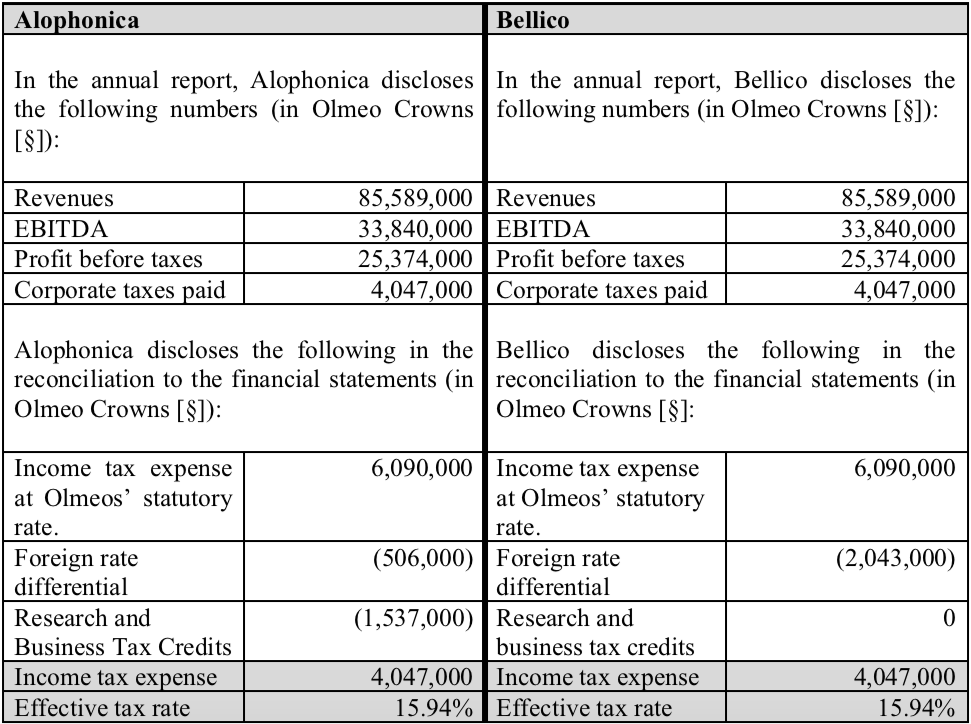
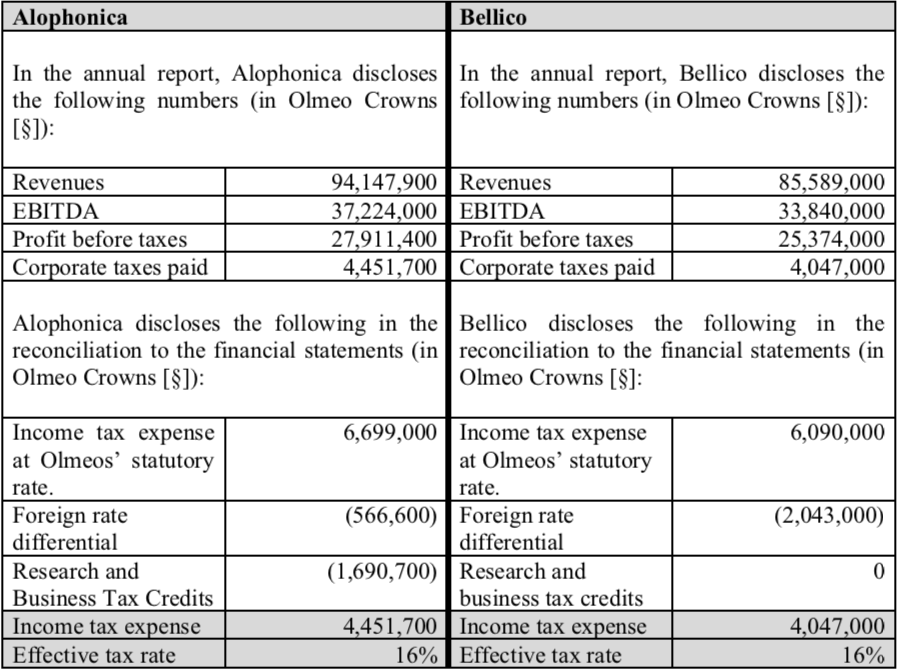
Update Materials

Changed region(s): [[0.0, 0.0, 1.0, 1.0]]

diff --git a/publictax/templates/publictax/Info_3.html b/publictax/templates/publictax/Info_3.html
@@ -36,19 +36,19 @@
     </thead>
         <tr>
             <td><b>Total Income:</b></td>
-            <td>$85,589,000</td>
+            <td>$94,147,900</td>
             <td><b>Total Income:</b></td>
             <td>$85,589,000</td>
         </tr>
         <tr>
             <td><b>Taxable Income:</b></td>
-            <td>$25,374,000</td>
+            <td>$37,224,000</td>
             <td><b>Taxable Income:</b></td>
             <td>$25,374,000</td>
         </tr>
         <tr>
             <td><b>Taxes Paid:</b></td>
-            <td>$4,047,000</td>
+            <td>$4,451,700</td>
             <td><b>Taxes Paid:</b></td>
             <td>$4,047,000</td>
         </tr>

diff --git a/_templates/global/MTurkPreview.html b/_templates/global/MTurkPreview.html
@@ -1,0 +1,19 @@
+{% extends "otree/MTurkPreview.html" %}
+{% load otree %}
+
+{% block title %}Please read this before clicking "Accept"{% endblock %}
+
+{% block content %}
+    <p>
+        This HIT is part of a study on decision-making.
+    </p>
+
+    <p>
+       During this HIT, you will be asked to evaluate corporate tax strategies. For completing this experiment, you
+        receive a reward of $1.
+    </p>
+
+    <p>
+        After completing this HIT, you will receive your reward
+    </p>
+{% endblock %}

diff --git a/publictax/templates/publictax/Intro.html b/publictax/templates/publictax/Intro.html
@@ -29,7 +29,7 @@ Please take note of the following information:
     <p>Thank you,</p>
 
     <p>Bart Dierynck, Martin Jacob, Christian Peters, Maximilian M&#252ller, and Victor van Pelt<br>
-    Tilburg University</p>
+    Tilburg University and WHU - Otto Beisheim School of Management</p>
     </div>
 
 

diff --git a/settings.py b/settings.py
@@ -5,10 +5,23 @@ from os import environ
 # the session config can be accessed from methods in your apps as self.session.config,
 # e.g. self.session.config['participation_fee']
 
+mturk_hit_settings = {
+    'keywords': ['bonus', 'study'],
+    'title': 'A Study about Corporate Taxation',
+    'description': 'During this study you will be asked to assess corporate tax strategies',
+    'frame_height': 500,
+    'preview_template': 'global/MTurkPreview.html',
+    'minutes_allotted_per_assignment': 20,
+    'expiration_hours': 7*24, # 7 days
+    #'grant_qualification_id': 'YOUR_QUALIFICATION_ID_HERE',# to prevent retakes
+    'qualification_requirements': []
+}
+
 SESSION_CONFIG_DEFAULTS = {
     'real_world_currency_per_point': 1.00,
-    'participation_fee': 0.00,
+    'participation_fee': 1.00,
     'doc': "",
+    'mturk_hit_settings': mturk_hit_settings,
 }
 
 SESSION_CONFIGS = [
@@ -26,7 +39,8 @@ SESSION_CONFIGS = [
     },
 ]
 
-
+AWS_ACCESS_KEY_ID = environ.get('AWS_ACCESS_KEY_ID')
+AWS_SECRET_ACCESS_KEY = environ.get('AWS_SECRET_ACCESS_KEY')
 
 # ISO-639 code
 # for example: de, fr, ja, ko, zh-hans
